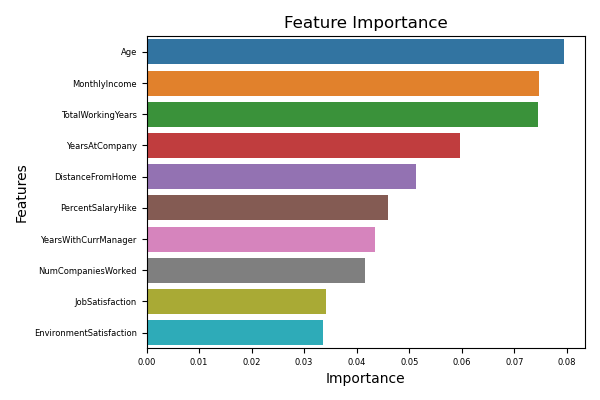
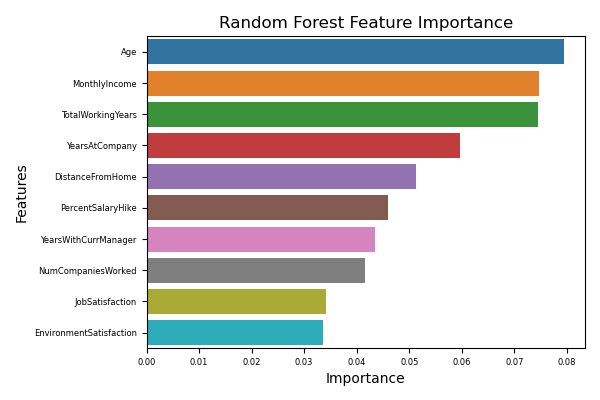
Update feature importance plot titles in forest_script.py and tree_script.py

Changed region(s): [[0.36, 0.03, 0.87, 0.09]]

diff --git a/src/models/visualization.py b/src/models/visualization.py
@@ -106,7 +106,7 @@ def plot_confusion_matrix(model, X_test, y_test, path=None):
 
 
 # function to plot feature importance
-def plot_feature_importance(model, X, path=None):
+def plot_feature_importance(model, X, path=None, title='Feature Importance'):
     ''' Plot feature importance
     Args:
         model (sklearn estimator): Trained model.
@@ -123,7 +123,7 @@ def plot_feature_importance(model, X, path=None):
     # plot feature importance
     fig, ax = plt.subplots(figsize=(6, 4))
     sns.barplot(x='importance', y='feature', data=feature_importance_df.iloc[:10])
-    plt.title('Feature Importance')
+    plt.title(title)
     plt.xlabel('Importance')
     plt.ylabel('Features')
     plt.xticks(fontsize=6)

diff --git a/scripts/forest_script.py b/scripts/forest_script.py
@@ -39,7 +39,7 @@ def main():
     model = train_model(X_train, y_train, **params)
 
     # plot feature importance
-    plot_feature_importance(model, X_train, root_dir+'/reports/figures/forest_feature_importance.png')
+    plot_feature_importance(model, X_train, root_dir+'/reports/figures/forest_feature_importance.png', title='Random Forest Feature Importance')
 
     # plot confusion matrix
     plot_confusion_matrix(model, X_test, y_test, root_dir+'/reports/figures/forest_confusion_matrix.png')

diff --git a/scripts/tree_script.py b/scripts/tree_script.py
@@ -38,7 +38,7 @@ def main():
     model = train_model(X_train, y_train, **params)
 
     # plot feature importance
-    plot_feature_importance(model, X_train, root_dir+'/reports/figures/tree_feature_importance.png')
+    plot_feature_importance(model, X_train, root_dir+'/reports/figures/tree_feature_importance.png', title='Decision Tree Feature Importance')
 
     # plot confusion matrix
     plot_confusion_matrix(model, X_test, y_test, root_dir+'/reports/figures/tree_confusion_matrix.png')

diff --git a/reports/attrition_report.md b/reports/attrition_report.md
@@ -57,5 +57,9 @@ Roc Curve and precision-recall curve:
 
 These figures show that the random forest model slightly outperforms the decision tree model in terms of precision, recall, and f1 score. However, the difference in performance between the two models is not significant, and both models can effectively predict employee attrition. 
 
+### Feature Importance
+
+Both models provide insights into the key factors driving employee attrition. The top features contributing to attrition include:
+
 
 
